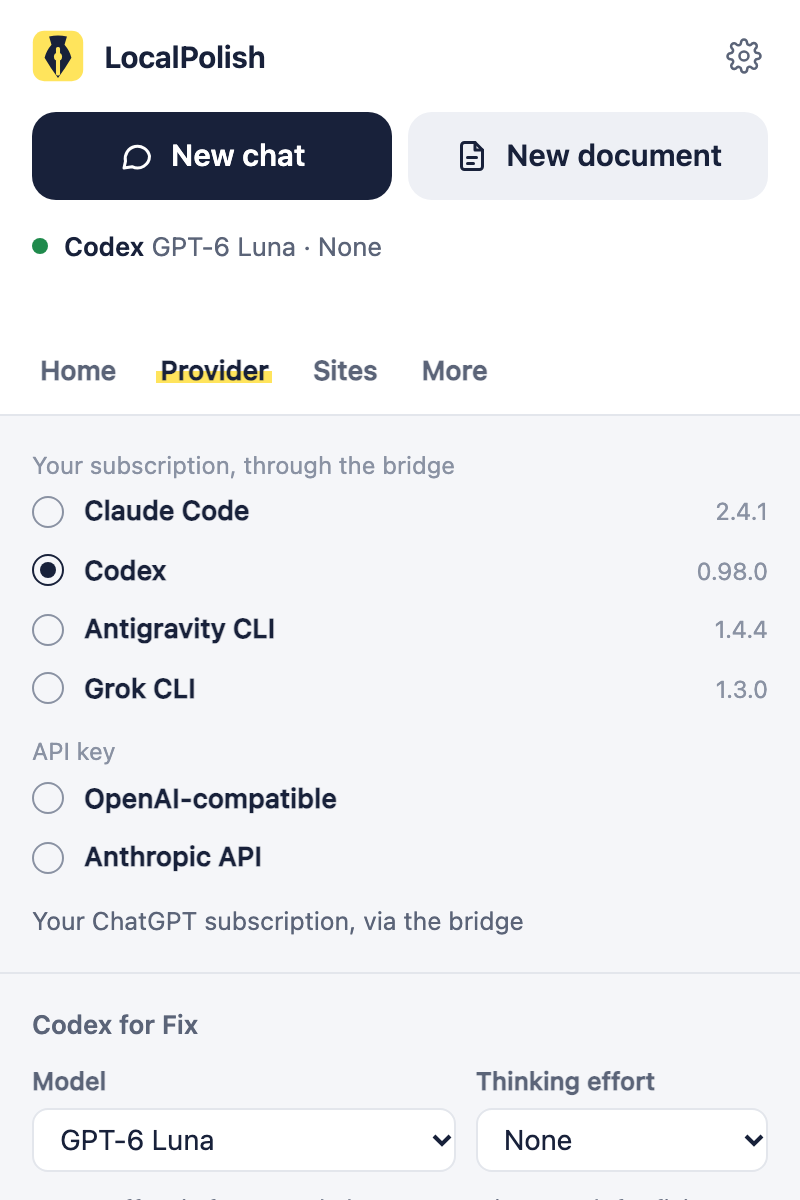
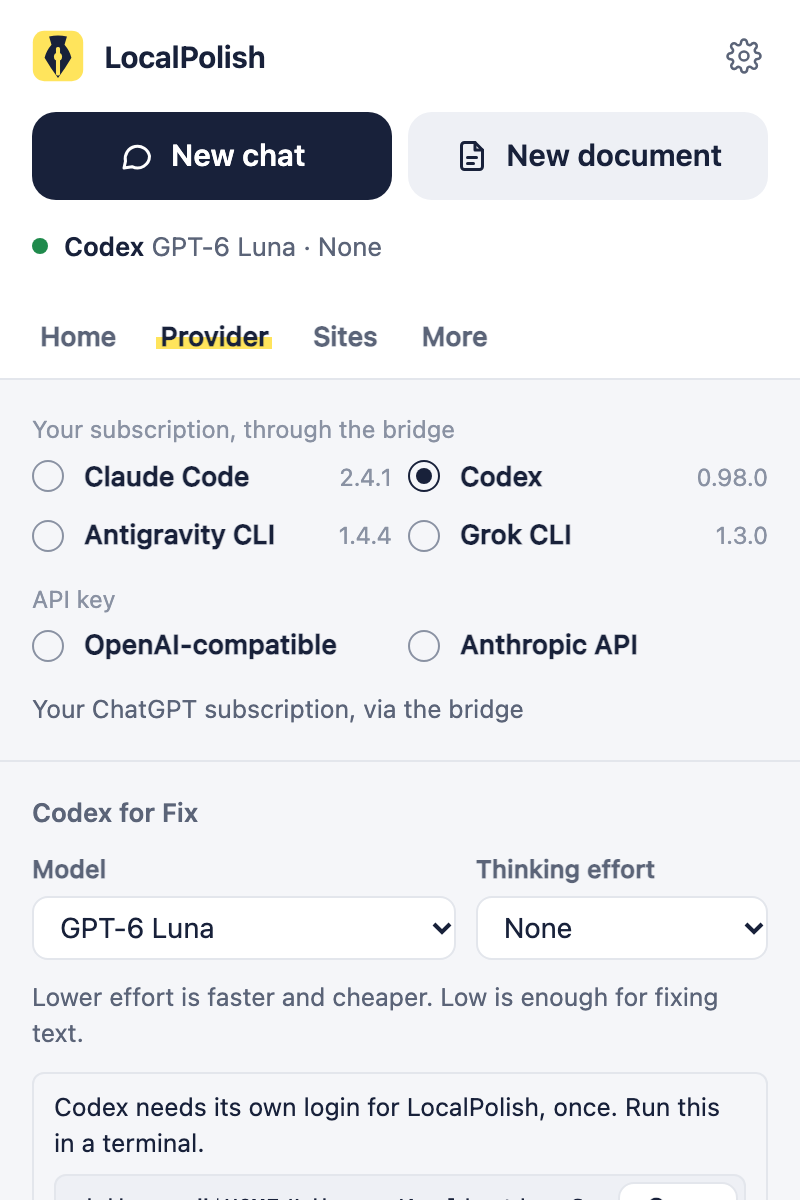
fix: make the popup Provider tab more compact
Provider rows sit in two columns and the empty band under the provider line is gone.

diff --git a/src/popup/Hero.tsx b/src/popup/Hero.tsx
@@ -15,7 +15,7 @@ interface HeroProps {
   chat: TargetState;
   /**
    * False on the Provider tab, which has its own Test connection, bridge status and result.
-   * The hero then hides those (keeping its height, so the tabs do not move).
+   * The hero then drops those.
    */
   full: boolean;
   onOpenProvider(): void;
@@ -72,15 +72,16 @@ export function Hero({ settings, bridge, test, chat, full, onOpenProvider }: Her
           Test
         </button>
       </div>
-      <div class="hero-status">
-        {bridgeError ? (
-          <BridgeErrorNote message={bridgeError} />
-        ) : (
-          // A blank line on Provider keeps the height without repeating the Bridge section.
-          <span class={`link-label ${link.tone}`}>{full ? link.label : ' '}</span>
-        )}
-        {full && <TestStatus test={test} />}
-      </div>
+      {full && (
+        <div class="hero-status">
+          {bridgeError ? (
+            <BridgeErrorNote message={bridgeError} />
+          ) : (
+            <span class={`link-label ${link.tone}`}>{link.label}</span>
+          )}
+          <TestStatus test={test} />
+        </div>
+      )}
     </div>
   );
 }

diff --git a/src/popup/popup.css b/src/popup/popup.css
@@ -409,7 +409,7 @@ button.new-chat.alt:hover:not(:disabled) {
   color: var(--error);
 }
 
-/* Hidden, not removed, so the hero keeps its height and the tabs stay put. */
+/* Hidden, not removed, so the line keeps its height. */
 .hero.quiet .text-btn {
   visibility: hidden;
 }
@@ -891,11 +891,13 @@ button.copy {
 /* Provider list */
 
 .prov-list {
-  display: flex;
-  flex-direction: column;
+  display: grid;
+  grid-template-columns: repeat(2, minmax(0, 1fr));
+  column-gap: 8px;
 }
 
 .group-label {
+  grid-column: 1 / -1;
   margin: 8px 0 0;
   font-size: 12px;
   color: var(--faint);
@@ -976,6 +978,9 @@ button.copy {
 .prov .name {
   flex: 1;
   min-width: 0;
+  overflow: hidden;
+  text-overflow: ellipsis;
+  white-space: nowrap;
   font-weight: 550;
 }
 
